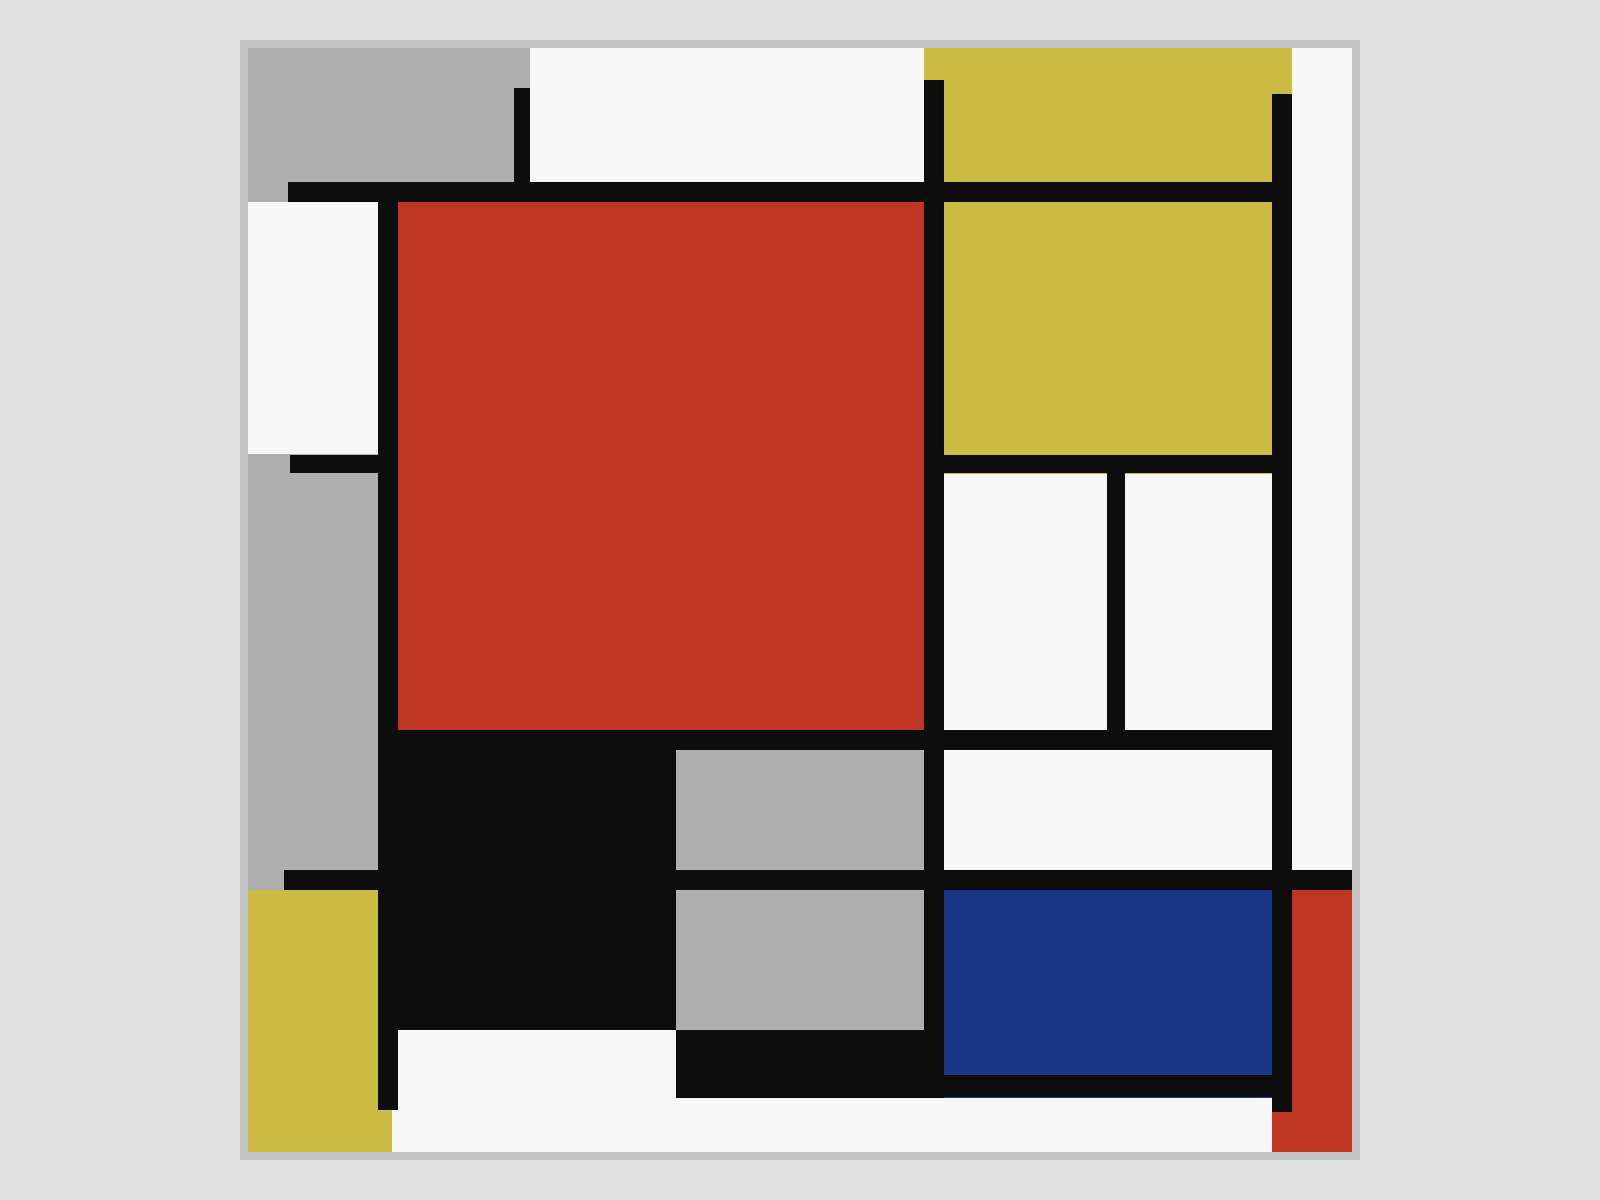
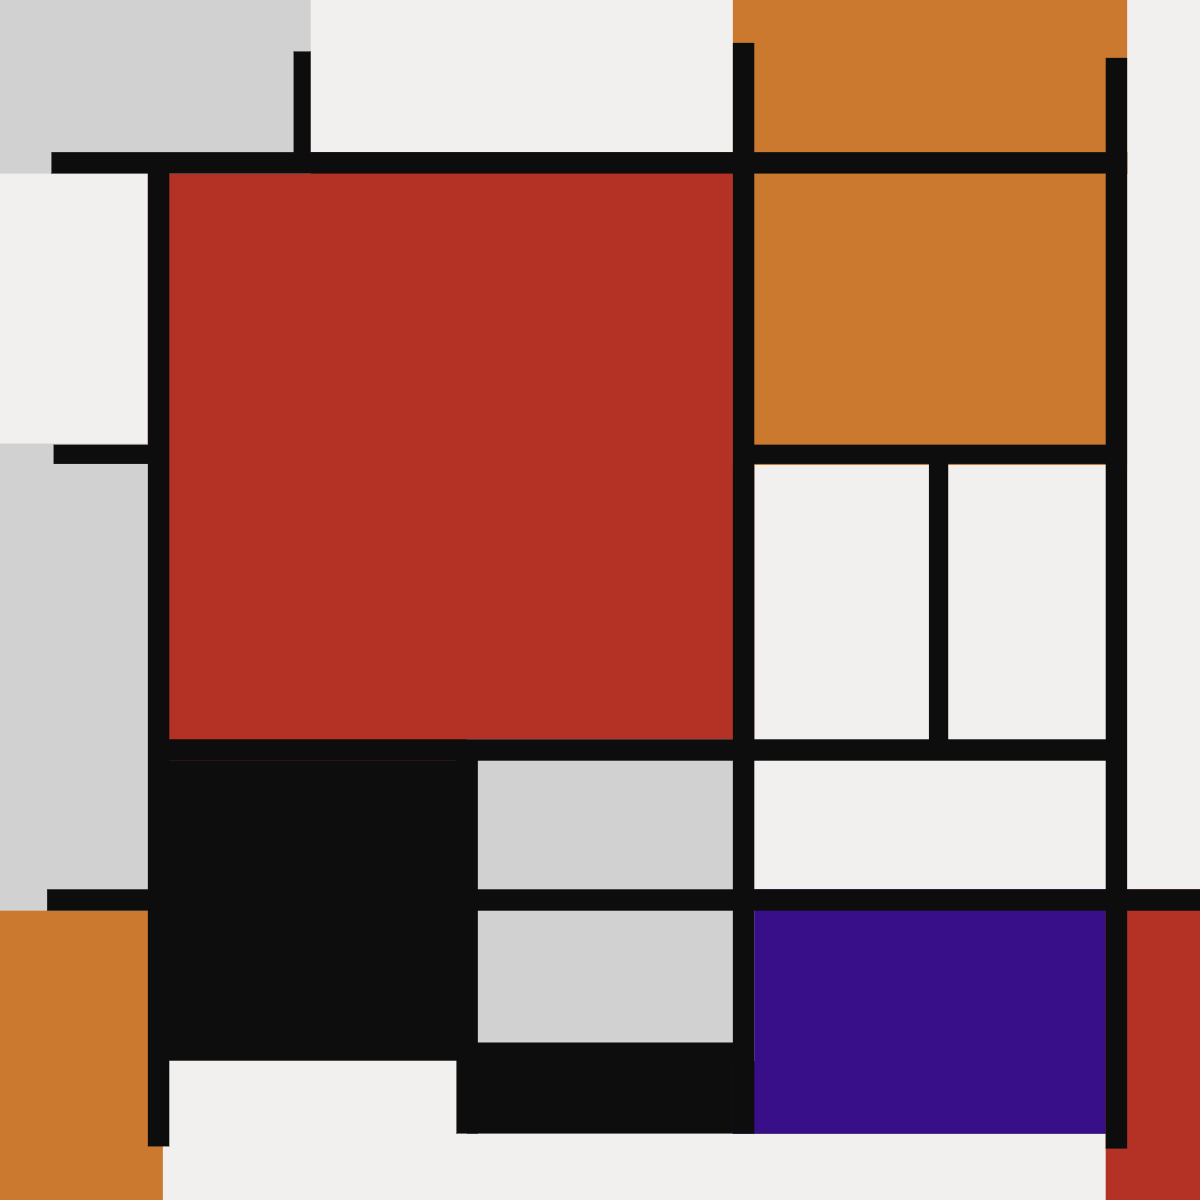
Aggiorna fondo e anteprima di es2

diff --git a/es2/sketch.js b/es2/sketch.js
@@ -21,7 +21,7 @@ const luminositaBlu = 30;
 const luminositaGrigioVivido = 82;
 const luminositaGrigioSpento = 68;
 const luminositaSfondo = 88;
-const luminositaCarta = 97;
+const luminositaCarta = 94;
 const luminositaNero = 5;
 const tonoRosso = 0;
 const tonoGiallo = 42;
@@ -114,7 +114,7 @@ function draw() {
   scale(scalaComposizione);
   background(0, 0, luminositaSfondo);
   noStroke();
-  fill(0, 0, luminositaCarta);
+  fill(40, 12, luminositaCarta);
   rect(posizioneComposizioneX, posizioneComposizioneY, dimensioneComposizione, dimensioneComposizione);
 
   for (const campo of campitureNere) {
